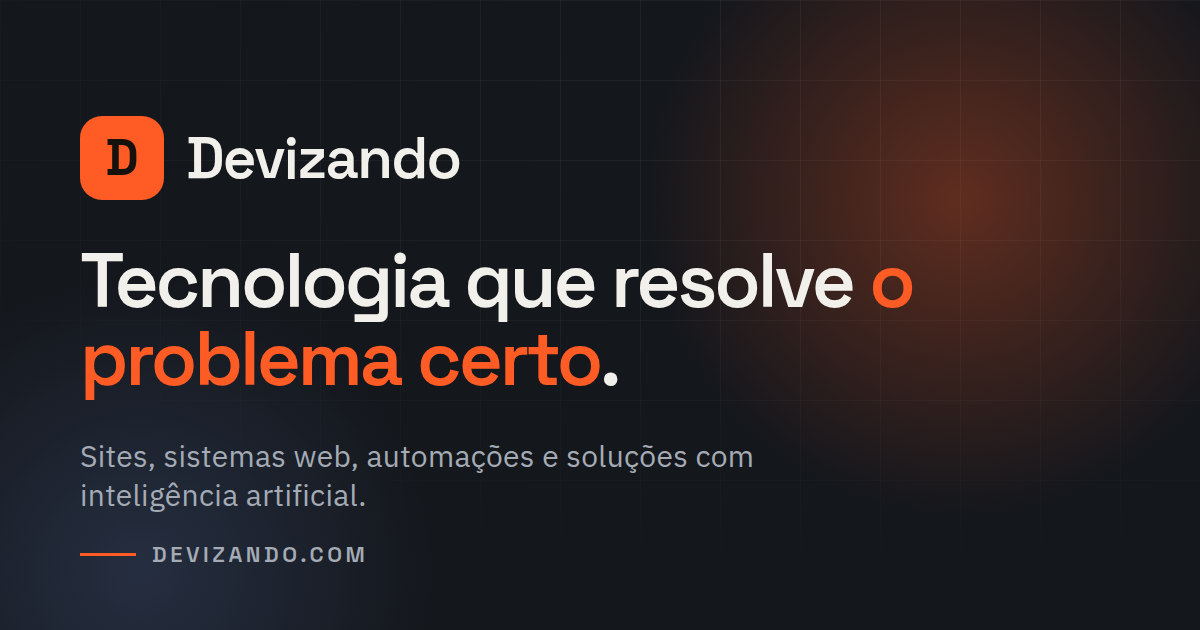
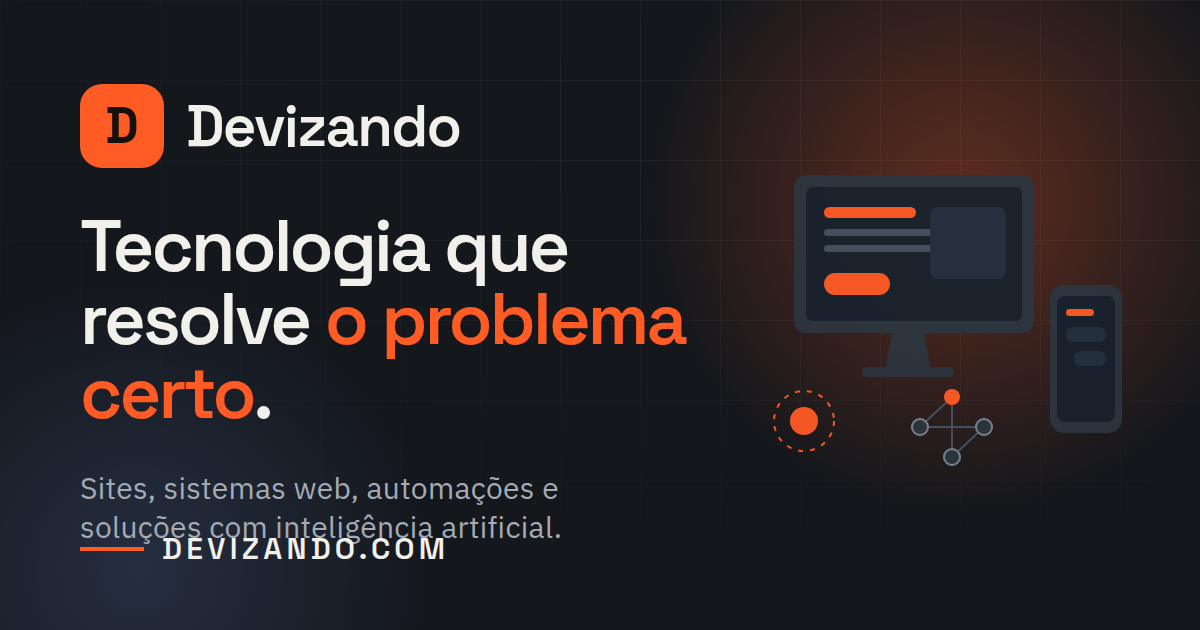
fix: acessibilidade e qualidade visual apontadas na revisão
- botão secundário do hero invisível (contraste 1:1) — hero ganha contexto escuro
- rótulos em seções claras com contraste abaixo do AA — acento escurecido
- cena 3D mais clara e preenchida (luzes, materiais e câmera)
- menu móvel com overlay próprio, sem se misturar ao conteúdo
- formulário limpa erros conforme o usuário preenche cada campo
- imagem OG com arte própria e domínio maior

Changed region(s): [[0.0617, 0.1206, 0.9558, 0.754], [0.0617, 0.6937, 0.6475, 0.9048], [0.6475, 0.6333, 0.6783, 0.6937]]

diff --git a/src/components/Scene3D.tsx b/src/components/Scene3D.tsx
@@ -24,12 +24,12 @@ function Rig({ reduced }: { reduced: boolean }) {
 
   useFrame(() => {
     if (reduced) {
-      camera.position.set(0, 0.45, 6.2);
+      camera.position.set(0, 0.35, 5.3);
       camera.lookAt(target);
       return;
     }
     camera.position.x += (pointer.x * 0.9 - camera.position.x) * 0.035;
-    camera.position.y += (0.45 + pointer.y * 0.55 - camera.position.y) * 0.035;
+    camera.position.y += (0.35 + pointer.y * 0.55 - camera.position.y) * 0.035;
     camera.lookAt(target);
   });
 
@@ -75,7 +75,7 @@ function Part({ focused, reduced, children, position, floatAmp = 0.08, speed = 0
     const group = ref.current;
     if (!group) return;
     const t = state.clock.elapsedTime;
-    const wanted = focused ? 1.1 : 0.94;
+    const wanted = focused ? 1.12 : 1;
     group.scale.lerp(new THREE.Vector3(wanted, wanted, wanted), 0.045);
     if (!reduced) {
       group.position.y = base.y + Math.sin(t * speed + base.x) * floatAmp;
@@ -97,7 +97,7 @@ function Monitor({ focused, reduced, kind }: { focused: boolean; reduced: boolea
   return (
     <Part focused={focused} reduced={reduced} position={[0, 0.25, -0.2]} floatAmp={0.07} speed={0.5}>
       <RoundedBox args={[3.05, 1.95, 0.12]} radius={0.05} smoothness={4} castShadow={false}>
-        <meshStandardMaterial color="#20262e" metalness={0.55} roughness={0.42} />
+        <meshStandardMaterial color="#2c353f" metalness={0.55} roughness={0.42} />
       </RoundedBox>
       <mesh position={[0, 0, 0.075]}>
         <planeGeometry args={[2.82, 1.72]} />
@@ -105,11 +105,11 @@ function Monitor({ focused, reduced, kind }: { focused: boolean; reduced: boolea
       </mesh>
       <mesh position={[0, -1.16, -0.1]}>
         <cylinderGeometry args={[0.07, 0.11, 0.5, 18]} />
-        <meshStandardMaterial color="#20262e" metalness={0.5} roughness={0.4} />
+        <meshStandardMaterial color="#2c353f" metalness={0.5} roughness={0.4} />
       </mesh>
       <mesh position={[0, -1.42, -0.1]} rotation={[Math.PI / 2, 0, 0]}>
         <cylinderGeometry args={[0.52, 0.52, 0.07, 28]} />
-        <meshStandardMaterial color="#20262e" metalness={0.5} roughness={0.4} />
+        <meshStandardMaterial color="#2c353f" metalness={0.5} roughness={0.4} />
       </mesh>
     </Part>
   );
@@ -123,7 +123,7 @@ function Phone({ focused, reduced }: { focused: boolean; reduced: boolean }) {
     <Part focused={focused} reduced={reduced} position={[-2.25, -0.35, 1.05]} floatAmp={0.11} speed={0.75}>
       <group rotation={[0, 0.38, 0.06]}>
         <RoundedBox args={[0.78, 1.6, 0.09]} radius={0.12} smoothness={4}>
-          <meshStandardMaterial color="#20262e" metalness={0.5} roughness={0.4} />
+          <meshStandardMaterial color="#2c353f" metalness={0.5} roughness={0.4} />
         </RoundedBox>
         <mesh position={[0, 0, 0.052]}>
           <planeGeometry args={[0.66, 1.46]} />
@@ -139,7 +139,7 @@ function Panel({ focused, reduced }: { focused: boolean; reduced: boolean }) {
     <Part focused={focused} reduced={reduced} position={[2.35, 0.55, 0.65]} floatAmp={0.1} speed={0.62}>
       <group rotation={[0.12, -0.55, -0.05]}>
         <RoundedBox args={[1.55, 1.1, 0.08]} radius={0.06} smoothness={4}>
-          <meshStandardMaterial color="#242b34" metalness={0.45} roughness={0.5} />
+          <meshStandardMaterial color="#2f3945" metalness={0.45} roughness={0.5} />
         </RoundedBox>
         <mesh position={[-0.32, 0.22, 0.05]}>
           <planeGeometry args={[0.72, 0.34]} />
@@ -147,7 +147,7 @@ function Panel({ focused, reduced }: { focused: boolean; reduced: boolean }) {
         </mesh>
         <mesh position={[0.28, 0.22, 0.05]}>
           <planeGeometry args={[0.36, 0.34]} />
-          <meshBasicMaterial color="#39434f" toneMapped={false} />
+          <meshBasicMaterial color="#4d5967" toneMapped={false} />
         </mesh>
         <mesh position={[-0.15, -0.22, 0.05]}>
           <planeGeometry args={[1.1, 0.3]} />
@@ -210,11 +210,11 @@ function NodeNetwork({ focused, reduced, count = 5 }: { focused: boolean; reduce
         </mesh>
       ))}
       {nodes.map((p, i) => {
-        return <Line key={`l${i}`} points={[[0, 0, 0], p]} color="#39434f" lineWidth={1.2} transparent opacity={0.7} />;
+        return <Line key={`l${i}`} points={[[0, 0, 0], p]} color="#4d5967" lineWidth={1.2} transparent opacity={0.7} />;
       })}
       {nodes.map((p, i) => {
         const next = nodes[(i + 1) % nodes.length]!;
-        return <Line key={`c${i}`} points={[p, next]} color="#39434f" lineWidth={1} transparent opacity={0.45} />;
+        return <Line key={`c${i}`} points={[p, next]} color="#4d5967" lineWidth={1} transparent opacity={0.45} />;
       })}
     </Part>
   );
@@ -226,7 +226,7 @@ function Servers({ focused, reduced }: { focused: boolean; reduced: boolean }) {
       {[0, 1, 2].map((i) => (
         <group key={i} position={[0, i * 0.36, 0]}>
           <RoundedBox args={[1.5, 0.3, 0.72]} radius={0.05} smoothness={4}>
-            <meshStandardMaterial color="#242b34" metalness={0.5} roughness={0.45} />
+            <meshStandardMaterial color="#2f3945" metalness={0.5} roughness={0.45} />
           </RoundedBox>
           <mesh position={[0.58, 0, 0.37]}>
             <circleGeometry args={[0.035, 12]} />
@@ -242,7 +242,7 @@ function Halo() {
   return (
     <mesh position={[0, 0.15, -1.9]} rotation={[0.35, 0, 0]}>
       <torusGeometry args={[3.1, 0.012, 8, 96]} />
-      <meshBasicMaterial color="#39434f" transparent opacity={0.55} toneMapped={false} />
+      <meshBasicMaterial color="#4d5967" transparent opacity={0.55} toneMapped={false} />
     </mesh>
   );
 }
@@ -256,10 +256,10 @@ function SceneContents({ active, reduced }: { active: ServiceKey; reduced: boole
     <>
       <Rig reduced={reduced} />
 
-      <ambientLight intensity={0.55} />
-      <directionalLight position={[4, 5.5, 4]} intensity={2.1} color="#ffffff" />
-      <pointLight position={[-4.5, 2.2, 3]} intensity={26} distance={16} color={ACCENT} />
-      <pointLight position={[4, -2, 3.5]} intensity={12} distance={14} color="#7fa8ff" />
+      <ambientLight intensity={0.9} />
+      <directionalLight position={[4, 5.5, 4]} intensity={2.8} color="#ffffff" />
+      <pointLight position={[-4.5, 2.2, 3]} intensity={38} distance={18} color={ACCENT} />
+      <pointLight position={[4, -2, 3.5]} intensity={18} distance={16} color="#8fb4ff" />
 
       <Halo />
 
@@ -278,7 +278,7 @@ export default function Scene3D({ active, reduced, running }: Props) {
     <Canvas
       dpr={[1, 1.75]}
       frameloop={running ? 'always' : 'never'}
-      camera={{ position: [0, 0.45, 6.2], fov: 35 }}
+      camera={{ position: [0, 0.35, 5.3], fov: 38 }}
       gl={{ antialias: true, alpha: true, powerPreference: 'high-performance' }}
       style={{ width: '100%', height: '100%' }}
       aria-hidden="true"

diff --git a/src/components/Contact.tsx b/src/components/Contact.tsx
@@ -32,6 +32,10 @@ export default function Contact({ formEnabled }: { formEnabled: boolean }) {
     return next;
   }
 
+  function clearError(field: keyof FieldErrors) {
+    setErrors((prev) => ({ ...prev, [field]: undefined }));
+  }
+
   async function handleSubmit(event: FormEvent<HTMLFormElement>) {
     event.preventDefault();
     const form = event.currentTarget;
@@ -130,7 +134,15 @@ export default function Contact({ formEnabled }: { formEnabled: boolean }) {
                 <label className={styles.label} htmlFor="name">
                   Nome
                 </label>
-                <input className={styles.input} id="name" name="name" type="text" autoComplete="name" required />
+                <input
+                  className={styles.input}
+                  id="name"
+                  name="name"
+                  type="text"
+                  autoComplete="name"
+                  required
+                  onChange={() => clearError('name')}
+                />
                 {errors.name && <p className={styles.error}>{errors.name}</p>}
               </div>
 
@@ -138,7 +150,15 @@ export default function Contact({ formEnabled }: { formEnabled: boolean }) {
                 <label className={styles.label} htmlFor="email">
                   E-mail
                 </label>
-                <input className={styles.input} id="email" name="email" type="email" autoComplete="email" required />
+                <input
+                  className={styles.input}
+                  id="email"
+                  name="email"
+                  type="email"
+                  autoComplete="email"
+                  required
+                  onChange={() => clearError('email')}
+                />
                 {errors.email && <p className={styles.error}>{errors.email}</p>}
               </div>
             </div>
@@ -155,7 +175,14 @@ export default function Contact({ formEnabled }: { formEnabled: boolean }) {
                 <label className={styles.label} htmlFor="service">
                   Serviço de interesse
                 </label>
-                <select className={styles.select} id="service" name="service" defaultValue="" required>
+                <select
+                  className={styles.select}
+                  id="service"
+                  name="service"
+                  defaultValue=""
+                  required
+                  onChange={() => clearError('service')}
+                >
                   <option value="" disabled>
                     Selecione…
                   </option>
@@ -179,6 +206,7 @@ export default function Contact({ formEnabled }: { formEnabled: boolean }) {
                 id="message"
                 name="message"
                 required
+                onChange={() => clearError('message')}
                 placeholder="Descreva o que você precisa, o momento do negócio e algum prazo que exista."
               />
               {errors.message && <p className={styles.error}>{errors.message}</p>}
@@ -192,7 +220,12 @@ export default function Contact({ formEnabled }: { formEnabled: boolean }) {
 
             <div className={styles.field}>
               <label className={styles.consent} htmlFor="consent">
-                <input id="consent" name="consent" type="checkbox" />
+                <input
+                  id="consent"
+                  name="consent"
+                  type="checkbox"
+                  onChange={() => clearError('consent')}
+                />
                 <span>
                   Concordo com o uso dos dados enviados para resposta deste contato, conforme a{' '}
                   <a href="/privacidade">política de privacidade</a>.

diff --git a/src/components/sceneTextures.ts b/src/components/sceneTextures.ts
@@ -6,9 +6,9 @@
  */
 
 const ACCENT = '#ff5b24';
-const PANEL = '#0e1218';
-const LINE = '#2a323d';
-const TEXT = '#8f9aa7';
+const PANEL = '#18222d';
+const LINE = '#45525f';
+const TEXT = '#a8b4c0';
 
 function base(w: number, h: number) {
   const canvas = document.createElement('canvas');
@@ -62,21 +62,21 @@ export function makeScreenTexture(kind: ScreenKind): HTMLCanvasElement {
     ctx.fillRect(40, 126, 110, 12);
     ctx.fillStyle = ACCENT;
     ctx.fillRect(40, 168, 96, 30);
-    ctx.fillStyle = '#1b222b';
+    ctx.fillStyle = '#243040';
     ctx.fillRect(300, 70, 172, 190);
     ctx.fillStyle = LINE;
     ctx.fillRect(316, 86, 140, 80);
     ctx.fillRect(316, 180, 140, 10);
     ctx.fillRect(316, 198, 100, 10);
   } else if (kind === 'sistemas') {
-    ctx.fillStyle = '#1b222b';
+    ctx.fillStyle = '#243040';
     ctx.fillRect(0, 34, 96, h - 34);
     ctx.fillStyle = ACCENT;
     ctx.fillRect(18, 60, 60, 10);
     ctx.fillStyle = LINE;
     for (let i = 0; i < 4; i++) ctx.fillRect(18, 92 + i * 26, 60, 8);
     for (let i = 0; i < 3; i++) {
-      ctx.fillStyle = '#1b222b';
+      ctx.fillStyle = '#243040';
       ctx.fillRect(124 + i * 122, 62, 106, 62);
     }
     ctx.fillStyle = LINE;
@@ -117,11 +117,11 @@ export function makeScreenTexture(kind: ScreenKind): HTMLCanvasElement {
     });
   } else if (kind === 'ia') {
     // balões de conversa
-    ctx.fillStyle = '#1b222b';
+    ctx.fillStyle = '#243040';
     ctx.fillRect(48, 72, 240, 54);
     ctx.fillStyle = ACCENT;
     ctx.fillRect(224, 156, 240, 54);
-    ctx.fillStyle = '#1b222b';
+    ctx.fillStyle = '#243040';
     ctx.fillRect(48, 240, 180, 44);
     ctx.fillStyle = LINE;
     ctx.fillRect(66, 90, 180, 8);
@@ -146,7 +146,7 @@ export function makeScreenTexture(kind: ScreenKind): HTMLCanvasElement {
   } else {
     // infraestrutura: racks de servidor
     for (let i = 0; i < 3; i++) {
-      ctx.fillStyle = '#1b222b';
+      ctx.fillStyle = '#243040';
       ctx.fillRect(60 + i * 140, 70, 112, 210);
       for (let j = 0; j < 5; j++) {
         ctx.fillStyle = LINE;
@@ -168,7 +168,7 @@ export function makePhoneTexture(): HTMLCanvasElement {
   const { canvas, ctx } = base(w, h);
   ctx.fillStyle = ACCENT;
   ctx.fillRect(24, 44, 130, 18);
-  ctx.fillStyle = '#1b222b';
+  ctx.fillStyle = '#243040';
   ctx.fillRect(24, 110, 190, 66);
   ctx.fillRect(56, 196, 176, 66);
   ctx.fillRect(24, 282, 150, 50);
@@ -179,7 +179,7 @@ export function makePhoneTexture(): HTMLCanvasElement {
   ctx.fillRect(72, 236, 96, 8);
   ctx.fillRect(40, 304, 110, 8);
   // campo de mensagem
-  ctx.fillStyle = '#1b222b';
+  ctx.fillStyle = '#243040';
   ctx.fillRect(24, 420, 208, 52);
   ctx.beginPath();
   ctx.arc(206, 446, 16, 0, Math.PI * 2);

diff --git a/src/components/Header.module.css b/src/components/Header.module.css
@@ -132,11 +132,16 @@
 }
 
 .mobileMenu {
+  position: fixed;
+  inset: 74px 0 0;
   display: grid;
+  align-content: start;
   gap: var(--space-2);
   padding: var(--space-4) var(--gutter) var(--space-6);
   background: rgba(20, 23, 28, 0.98);
+  backdrop-filter: blur(16px);
   border-bottom: 1px solid var(--ink-line);
+  overflow-y: auto;
 }
 
 .mobileLink {

diff --git a/src/components/Hero.tsx b/src/components/Hero.tsx
@@ -64,7 +64,7 @@ export default function Hero() {
     : generalCaption;
 
   return (
-    <section className={styles.hero} id="inicio">
+    <section className={`${styles.hero} section--dark`} id="inicio">
       <div className={`container ${styles.grid}`}>
         <div>
           <p className="eyebrow">Estúdio de desenvolvimento</p>

diff --git a/src/app/globals.css b/src/app/globals.css
@@ -66,7 +66,7 @@
   --text-on-dark: #f2f0eb;
   --text-on-dark-muted: #a4abb5;
   --accent: #ff5b24;
-  --accent-strong: #e64a17;
+  --accent-strong: #b83a10;
   --accent-soft: rgba(255, 91, 36, 0.12);
   --ok: #1c7a4d;
   --err: #b3261e;

diff --git a/src/components/Hero.module.css b/src/components/Hero.module.css
@@ -110,7 +110,7 @@
 }
 
 .sceneHost {
-  height: clamp(360px, 46vw, 540px);
+  height: clamp(330px, 40vw, 460px);
 }
 
 .sceneFallback {
